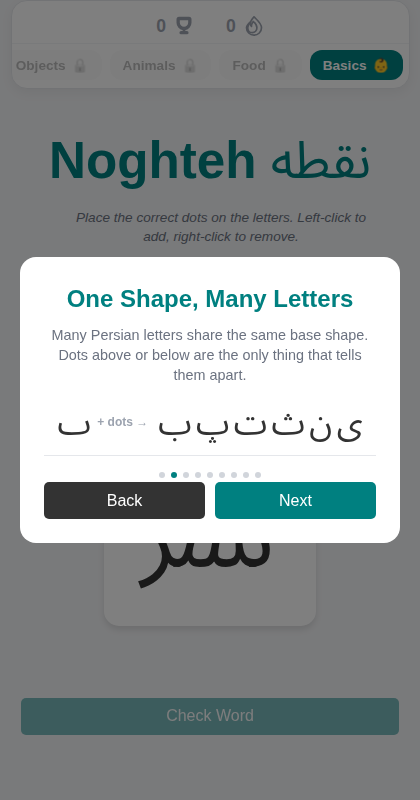
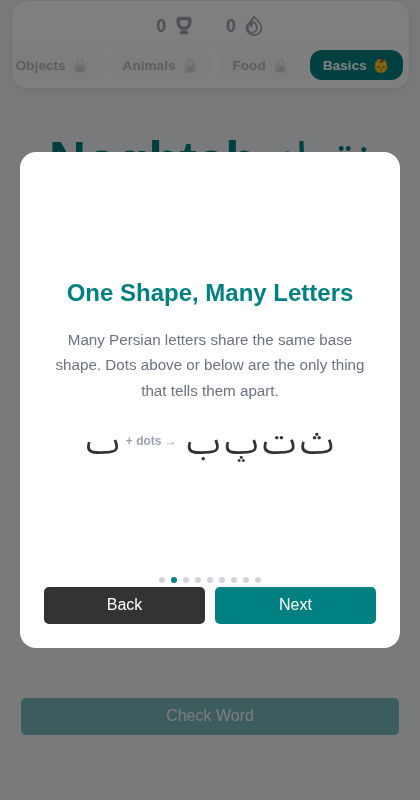
fix: correct family grouping, add card breathing room, drop em-dashes
- Exclude letters with an endBase override (ن, ی) from family grouping:
  they only match their family's shape in the initial/medial position,
  not on their own, so grouping them with ب/پ/ت/ث was misleading.
- Give the intro card more vertical room (min-height, taller line-height,
  content area centered above the nav row) so slide text doesn't feel
  cramped.
- Remove em-dashes from the welcome copy and a code comment.

diff --git a/src/components/DotFamilyIntro.jsx b/src/components/DotFamilyIntro.jsx
@@ -2,7 +2,7 @@ import { useState } from 'react';
 import { buildFamilies } from '../letterFamilies';
 
 // Each letter here is a real Persian character, so its glyph already
-// includes its own dots — just render the text, no dot overlay on top.
+// includes its own dots; just render the text, no dot overlay on top.
 const LetterPreview = ({ char }) => (
   <div className="letter-preview">
     <div className="preview-char">{char}</div>
@@ -15,9 +15,8 @@ const WelcomeSlide = () => (
     <p className="family-intro-copy">
       Noghteh (نقطه, "dot") helps you learn to read and write Persian. Many
       letters share the exact same skeleton and differ only by the dots
-      above or below them — so that's what you'll practice: look at a
-      word's letter skeletons and place the right dots on each one to spell
-      it.
+      above or below them, so that's what you'll practice: look at a word's
+      letter skeletons and place the right dots on each one to spell it.
     </p>
   </>
 );
@@ -60,7 +59,9 @@ export const DotFamilyIntro = ({ onClose }) => {
         role="dialog"
         aria-label="Welcome to Noghteh"
       >
-        {slide === 0 ? <WelcomeSlide /> : <FamilySlide family={families[slide - 1]} />}
+        <div className="family-intro-content">
+          {slide === 0 ? <WelcomeSlide /> : <FamilySlide family={families[slide - 1]} />}
+        </div>
 
         <div className="family-intro-progress">
           {Array.from({ length: totalSlides }).map((_, i) => (

diff --git a/src/components/DotFamilyIntro.test.jsx b/src/components/DotFamilyIntro.test.jsx
@@ -17,21 +17,28 @@ describe('buildFamilies', () => {
       });
     });
 
-    // Nothing with a unique base shape (e.g. ل, م, ه) was swept into a family.
+    // Nothing with a unique base shape (e.g. ل, م, ه), and nothing with an
+    // endBase override (ن, ی — they only match the family shape in the
+    // initial/medial position, not on their own), was swept into a family.
     const grouped = new Set(families.flatMap((f) => f.letters));
     Object.keys(LETTERS)
-      .filter((ch) => !grouped.has(ch))
+      .filter((ch) => !grouped.has(ch) && !LETTERS[ch].endBase)
       .forEach((ch) => {
         const basesSharedByOthers = Object.keys(LETTERS).filter(
           (other) => other !== ch && LETTERS[other].base === LETTERS[ch].base,
         );
         expect(basesSharedByOthers).toEqual([]);
       });
+    expect(grouped.has('ن')).toBe(false);
+    expect(grouped.has('ی')).toBe(false);
 
-    // Known families are present with every member.
-    expect(families.find((f) => f.letters.includes('ب')).letters).toEqual(
-      expect.arrayContaining(['ب', 'پ', 'ت', 'ث', 'ن', 'ی']),
-    );
+    // Known families are present with every member, and nothing extra.
+    expect(families.find((f) => f.letters.includes('ب')).letters).toEqual([
+      'ب',
+      'پ',
+      'ت',
+      'ث',
+    ]);
     expect(families.find((f) => f.letters.includes('ح')).letters).toEqual(
       expect.arrayContaining(['ح', 'ج', 'چ', 'خ']),
     );

diff --git a/src/letterFamilies.js b/src/letterFamilies.js
@@ -4,10 +4,18 @@ import { LETTERS } from './letterShaping';
 // family can never drift from the game's own dot data and nothing is
 // hand-picked or left out. Families with only one member (nothing to
 // confuse it with) are skipped.
+//
+// A letter with an `endBase` (ن, ی) only shares its base shape with the
+// rest of its family in the initial/medial position; on its own (how it's
+// shown here) it renders as `endBase` instead, a different shape. Those
+// letters are left out of grouping entirely so a family only ever shows
+// letters that actually look the same standalone.
 export const buildFamilies = () => {
   const byBase = new Map();
   for (const ch of Object.keys(LETTERS)) {
-    const { base } = LETTERS[ch];
+    const def = LETTERS[ch];
+    if (def.endBase) continue;
+    const { base } = def;
     if (!byBase.has(base)) byBase.set(base, []);
     byBase.get(base).push(ch);
   }

diff --git a/src/App.css b/src/App.css
@@ -413,24 +413,34 @@ button:active {
 .family-intro-card {
   background: white;
   border-radius: 16px;
-  padding: 24px;
+  padding: 32px 24px 24px;
   max-width: 420px;
   width: 100%;
+  min-height: 440px;
   max-height: 90vh;
   overflow-y: auto;
   text-align: center;
   direction: ltr;
+  display: flex;
+  flex-direction: column;
+}
+
+.family-intro-content {
+  flex: 1;
+  display: flex;
+  flex-direction: column;
+  justify-content: center;
 }
 
 .family-intro-card h2 {
-  margin: 0 0 8px;
+  margin: 0 0 16px;
   color: teal;
 }
 
 .family-intro-copy {
-  font-size: 0.9rem;
+  font-size: 0.95rem;
   color: #6b7280;
-  line-height: 1.4;
+  line-height: 1.7;
   margin: 0 0 20px;
 }
 
